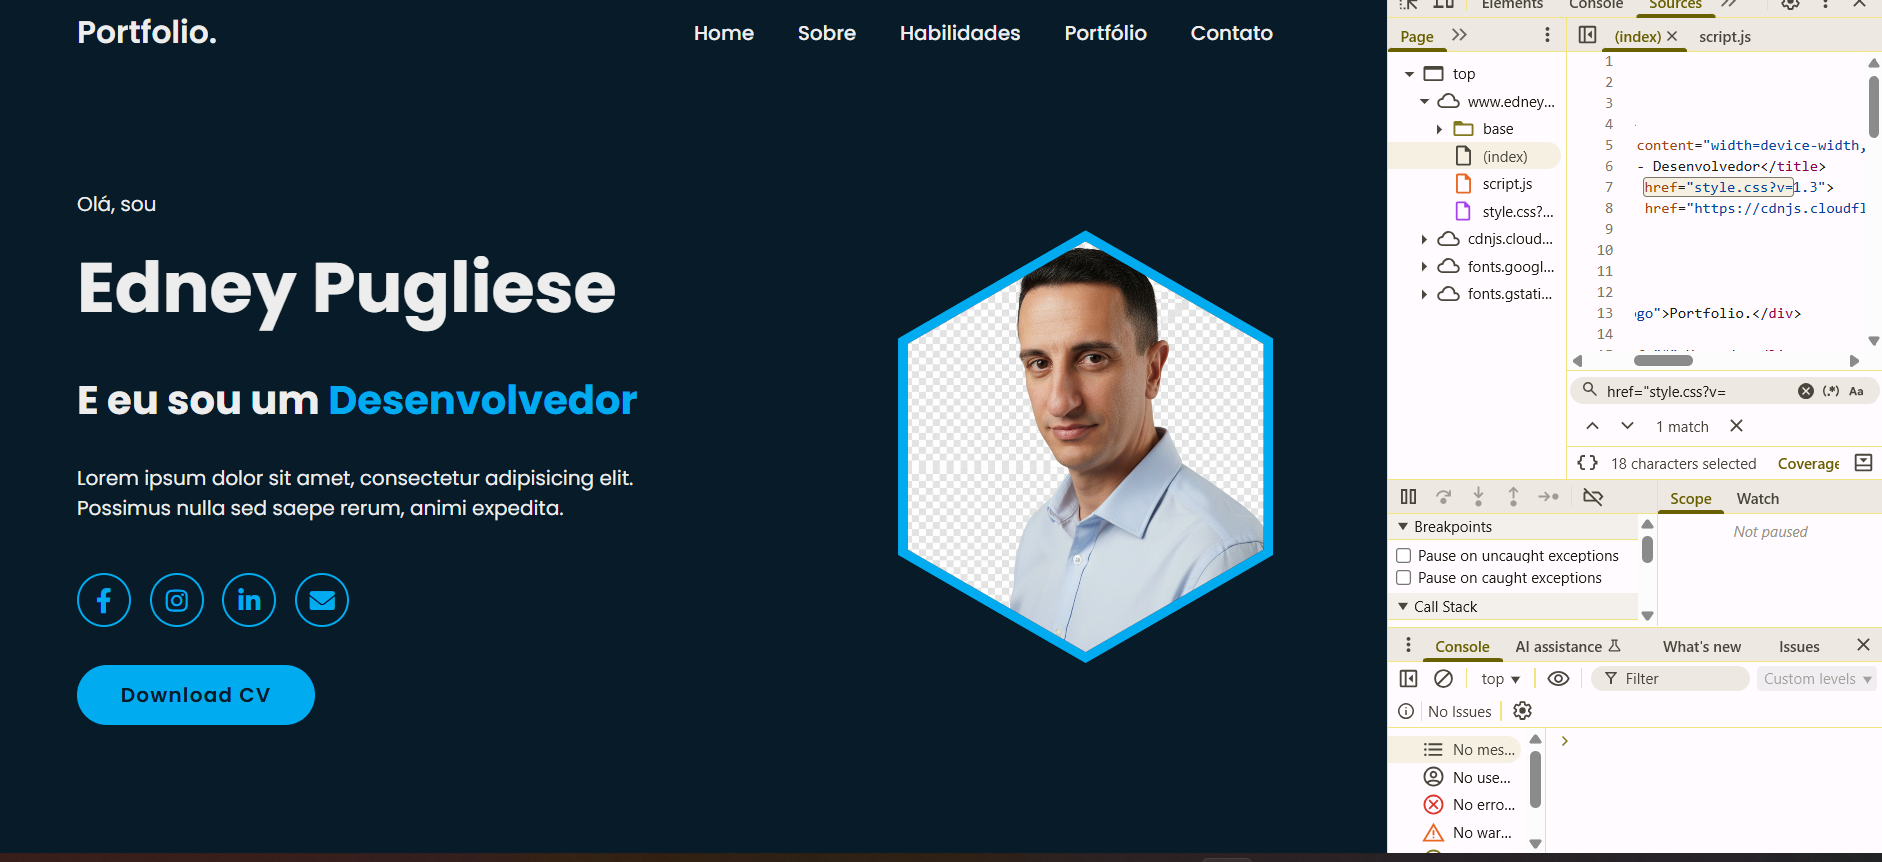
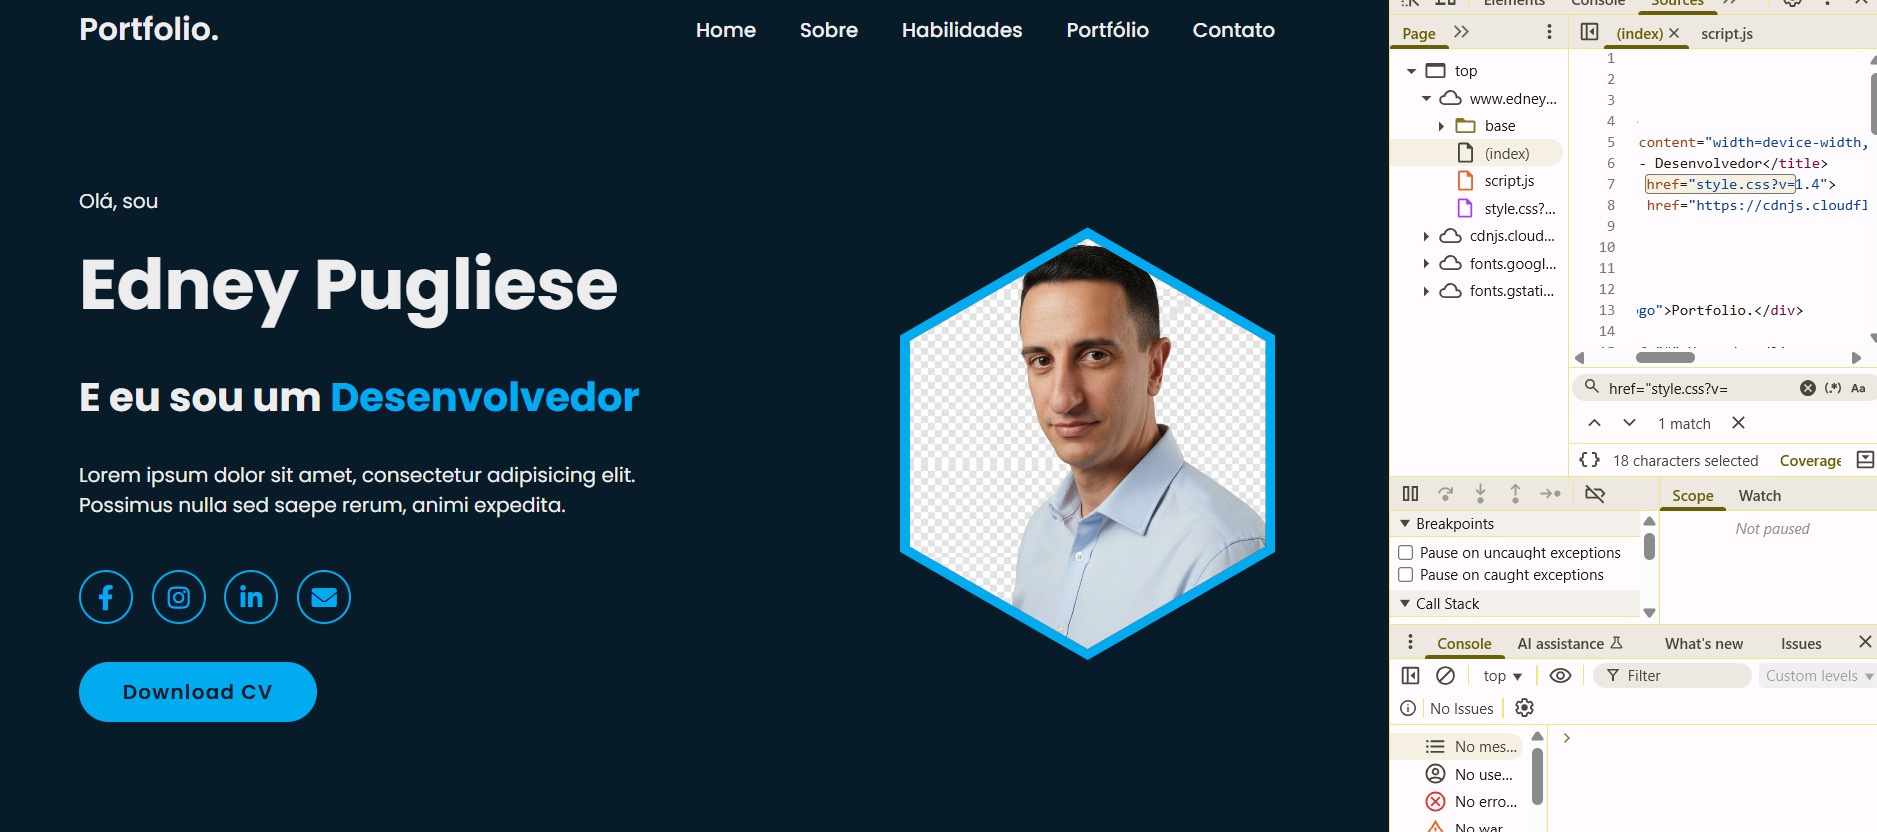
Implementa nova abordagem para fundo da imagem e brilho

diff --git a/style.css b/style.css
@@ -140,28 +140,25 @@ nav ul li a:hover, nav ul li a.active {
     height: 100%;
     background: #00abf0;
     clip-path: polygon(50% 0%, 100% 25%, 100% 75%, 50% 100%, 0% 75%, 0% 25%);
+    filter: drop-shadow(0 0 20px #00abf0);
 }
 
-.hexagon-border::after {
-    content: '';
-    position: absolute;
-    top: 0;
-    left: 0;
-    width: 100%;
-    height: 100%;
-    background: #00abf0;
-    clip-path: polygon(50% 0%, 100% 25%, 100% 75%, 50% 100%, 0% 75%, 0% 25%);
-    filter: blur(20px);
-    z-index: -1;
-}
-
-.hexagon-image {
+.hexagon-image-container {
     position: absolute;
     top: 50%;
     left: 50%;
     transform: translate(-50%, -50%);
     width: 95%;
     height: 95%;
-    background: #081b29 url('base/Edy_capa.png') center/cover no-repeat !important;
+    background-color: #081b29;
     clip-path: polygon(50% 0%, 100% 25%, 100% 75%, 50% 100%, 0% 75%, 0% 25%);
+}
+
+.hexagon-image {
+    width: 100%;
+    height: 100%;
+    background-image: url('base/Edy_capa.png');
+    background-size: cover;
+    background-position: center;
+    background-repeat: no-repeat;
 }

diff --git a/index.html b/index.html
@@ -4,7 +4,7 @@
     <meta charset="UTF-8">
     <meta name="viewport" content="width=device-width, initial-scale=1.0">
     <title>Edney Pugliese - Desenvolvedor</title>
-    <link rel="stylesheet" href="style.css?v=1.4">
+    <link rel="stylesheet" href="style.css?v=1.5">
     <link rel="stylesheet" href="https://cdnjs.cloudflare.com/ajax/libs/font-awesome/6.0.0-beta3/css/all.min.css">
 </head>
 <body>
@@ -35,7 +35,9 @@
         <section class="image-content">
             <div class="hexagon-wrapper">
                 <div class="hexagon-border"></div>
-                <div class="hexagon-image"></div>
+                <div class="hexagon-image-container">
+                    <div class="hexagon-image"></div>
+                </div>
             </div>
         </section>
     </main>
